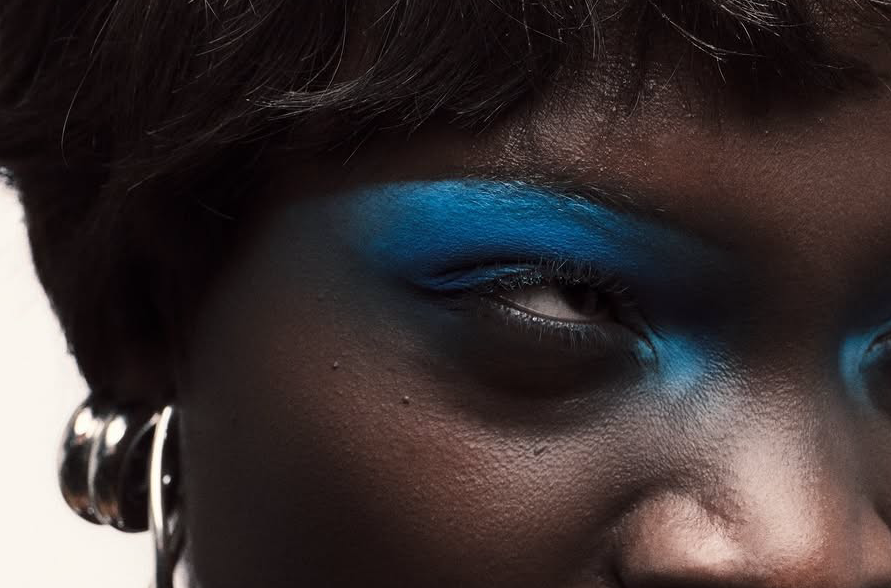
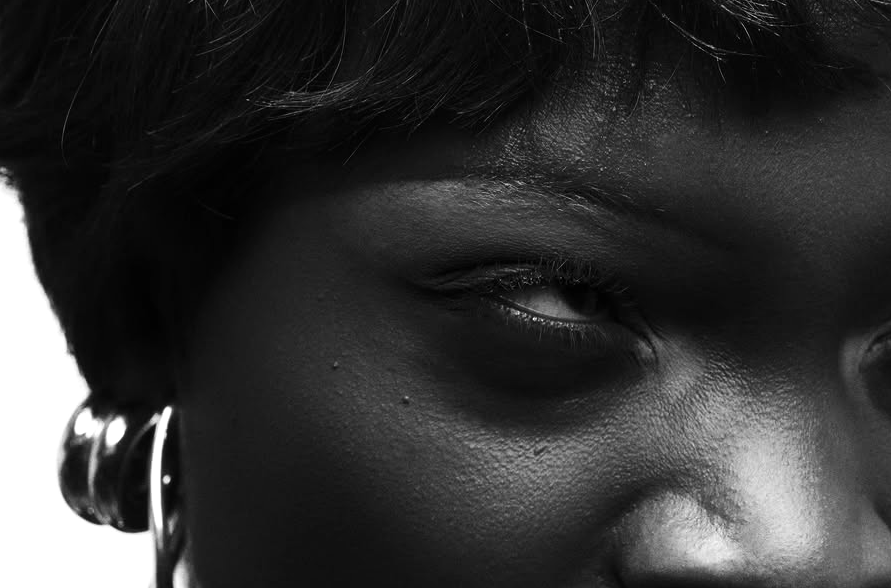
chore: implementing changes requested by client

diff --git a/src/app/community/page.tsx b/src/app/community/page.tsx
@@ -10,6 +10,7 @@ import discord from "@/assets/images/community/discord.svg";
 import vector from "@/assets/images/community/comm-vector.svg";
 import Footer from "./_components/Footer";
 
+
 export const metadata: Metadata = {
     title: "Community | Void Dreams",
     description: "Seek asylum. Join the Void Dreams community.",
@@ -18,16 +19,16 @@ export const metadata: Metadata = {
 const navLinks = ["Gallery", "Blog", "Opportunities"];
 const fields = ["ALTER EGO", "WYA", "WORK"];
 
-const buttonClass =
-    "h-[38px] cursor-pointer rounded-[4px] bg-[#D9D9D9] text-[22px] tracking-[-0.1em] text-black shadow-[inset_3px_2px_4px_rgba(0,0,0,0.25),-1px_1px_2px_rgba(87,87,87,0.95),0_-1px_2px_#fff]";
-
 export default function CommunityPage() {
+
     return (
         <main className="font-syne-mono relative flex min-h-dvh w-full text-[20px] flex-1 flex-col items-center overflow-hidden bg-[#060000] text-white">
             <div className="absolute inset-x-0 top-0 h-162.5">
-                <Image src={heroBg} alt="" fill preload sizes="100vw" className="object-cover" />
+                <Image src={heroBg} alt="seek asylum" fill preload sizes="100vw" className="object-cover" />
                 <div className="absolute inset-0 bg-black/40" />
             </div>
+
+
 
             <Image
                 src={texture}
@@ -44,7 +45,11 @@ export default function CommunityPage() {
                 ))}
             </nav>
 
-            <Image src={vector} alt="" aria-hidden className="pointer-events-none absolute top-[818px] right-[62px] hidden md:block" />
+            <Link href="/home">
+                <Image src={vector} alt="" aria-hidden className="max-md:w-20 fixed bottom-8 right-2 max-md:top-8 z-1000" />
+            </Link>
+
+
 
             <section className="relative top-20 mt-16 flex w-full flex-col gap-y-16 items-center px-4 md:mt-[100px]">
                 <h1 className="font-spray-letters text-center text-[4rem] leading-none tracking-[-0.05em] sm:text-[6rem] md:text-[8rem]">
@@ -66,11 +71,13 @@ We are here to ignite a creative revolution. To empower, uplift, and inspire a g
 Void Dreams exists to uplift, to challenge, and to create space for people to dream freely and build boldly.`}
             </p>
 
-            <section className="relative mt-24 flex w-full flex-col items-center px-4 md:mt-[80px]">
-                <h2 className="text-center text-5xl tracking-[-0.05em] md:text-[60px]">REBELZ ID</h2>
-                <p className="mt-1 text-xl tracking-[-0.05em] text-[#AAAAAA]">ID GENERATOR</p>
+            <section className="gap-15 relative mt-24 flex w-full flex-col items-center px-4 md:mt-[80px]">
+                <div className="relative top-10 flex flex-col items-center justify-center">
+                    <h2 className="text-center text-5xl tracking-[-0.05em] md:text-[60px]">REBELZ ID</h2>
+                    <p className="text-xl tracking-[-0.05em] text-[#AAAAAA]">ID GENERATOR</p>
+                </div>
 
-                <div className="mt-12 flex w-full max-w-[1100px] flex-col items-center gap-10 md:flex-row md:justify-center md:gap-4">
+                <div className="flex w-full max-w-[1100px] flex-col items-center gap-10 md:flex-row md:justify-center md:gap-4">
                     <figure className="flex w-full max-w-[488px] flex-col items-center">
                         <Image src={idFront} alt="Rebelz ID, front" className="h-auto w-full" />
                         <figcaption className="-mt-10 text-xl tracking-[-0.05em]">FRONT</figcaption>
@@ -81,7 +88,7 @@ Void Dreams exists to uplift, to challenge, and to create space for people to dr
                     </figure>
                 </div>
 
-                <div className="mt-12 flex w-full max-w-[562px] flex-col gap-[70px]">
+                <div className="flex w-full max-w-[562px] flex-col gap-[70px]">
                     {fields.map((label) => (
                         <input
                             key={label}
@@ -95,20 +102,21 @@ Void Dreams exists to uplift, to challenge, and to create space for people to dr
 
                 <div
                     role="presentation"
-                    className="mt-24 flex h-[241px] w-[263px] items-center justify-center rounded-[5px] bg-[#D9D9D9] px-14 text-center text-[15px] leading-[1.2] tracking-[-0.04em] text-[#160000] shadow-[inset_-5px_3px_2px_rgba(0,0,0,0.3)]"
+                    className="flex h-[241px] w-[263px] items-center justify-center rounded-[5px] bg-[#D9D9D9] px-14 text-center text-[15px] leading-[1.2] tracking-[-0.04em] text-[#160000] shadow-[inset_-5px_3px_2px_rgba(0,0,0,0.3)]"
                 >
                     Drag your image here
                     <br />
                     or click to browse
                 </div>
 
-                <button type="button" className={`button3d mt-14 w-[176px]`}>
+                <p className="max-w-[613px] px-2 text-center text-xl leading-[1.2] tracking-[-0.04em]">
+                    This ID is not a marketing campaign aimed at getting random people into our community. This ID is an important part of the Void Dreams world reserved for people who resonate with our mission and those who want to participate in the growth of the community long term.
+                </p>
+
+                <button type="button" className={`button3d h-10 w-[176px] md:relative md:bottom-5`}>
                     GENERATE
                 </button>
 
-                <p className="mt-16 max-w-[613px] px-2 text-center text-xl leading-[1.2] tracking-[-0.04em]">
-                    This ID is not a marketing campaign aimed at getting random people into our community. This ID is an important part of the Void Dreams world reserved for people who resonate with our mission and those who want to participate in the growth of the community long term.
-                </p>
             </section>
 
             <Footer />

diff --git a/src/app/community/_components/Footer.tsx b/src/app/community/_components/Footer.tsx
@@ -7,12 +7,13 @@ const linkClass = "block hover:opacity-100 focus-visible:outline-2 focus-visible
 
 export default function Footer() {
     return (
-        <footer className="relative mt-24 w-full overflow-hidden pb-3 md:mt-32">
+        <footer className="relative mt-14 w-full overflow-hidden pb-3 md:mt-8">
             <Image src={footerArt} alt="" className="pointer-events-none absolute inset-x-0 bottom-0 h-full w-full object-cover object-top" />
 
-            <div className="relative flex flex-col items-center gap-12 px-8 pt-24 md:flex-row md:items-start md:justify-between md:px-[107px]">
-                <div className="space-y-1 text-center md:text-left">
-                    <p className="text-base tracking-[-0.04em]">Navigation</p>
+            <div className="relative flex flex-row justify-center gap-12 px-8 pt-14 max-md:flex-col max-md:items-center max-md:gap-y-15 md:px-[107px]">
+
+                <div className="text-center md:text-left flex-1 max-md:w-full">
+                    <p className="text-[1.375rem] tracking-[-0.04em]">Navigation</p>
                     <ul className="text-sm leading-[1.2] tracking-[-0.05em] opacity-50">
                         <li><Link href="/home" className={linkClass}>Home</Link></li>
                         <li><Link href="#" className={linkClass}>Gallery</Link></li>
@@ -20,27 +21,28 @@ export default function Footer() {
                     </ul>
                 </div>
 
-                <div className="order-first flex w-full max-w-[462px] flex-col max-md:gap-y-5 items-center text-center md:order-none">
+                <div className="order-first flex w-full max-w-[462px] flex-1 flex-col max-md:gap-y-5 items-center text-center md:order-none">
                     <p className="text-xl tracking-[-0.04em]">EMAIL SIGN UP</p>
                     <p className="mt-3 text-base tracking-[-0.05em]">
                         Sign up for Newsletters and Reminders about <br className="hidden md:block" />
                         products and Community Activations
                     </p>
-                    <div className="mt-8 w-full border-b border-white pb-1 text-left text-xl tracking-[-0.05em]">EMAIL</div>
+                    <input className="mt-8 w-full border-b border-white pb-1 text-left text-xl tracking-[-0.05em]" placeholder="EMAIL" type="email" />
                     <button
                         type="button"
-                        className="button3d"
+                        className="button3d h-10"
                     >
                         SIGN UP
                     </button>
                 </div>
 
-                <div className="flex flex-col items-center gap-6 md:items-start">
+
+                <div className="flex flex-col items-center gap-6 md:items-end flex-1">
                     <div className="flex flex-col items-center md:items-start">
-                        <span className="text-[1.375rem] tracking-[-0.04em]">JOIN US</span>
+                        <span className="text-[1.375rem] tracking-[-0.04em] md:pl-2">JOIN US</span>
                         <Image src={joinIcons} alt="" width={143} height={48} className="mt-[5px]" />
                     </div>
-                    <div className="space-y-1 text-center md:text-left">
+                    <div className="space-y-1 w-[143px] md:pl-2 text-center md:text-left">
                         <p className="text-base tracking-[-0.04em]">Contacts</p>
                         <ul className="text-sm leading-[1.2] tracking-[-0.05em] opacity-50">
                             <li><Link href="#" className={linkClass}>Terms &amp; Conditions</Link></li>
@@ -50,7 +52,7 @@ export default function Footer() {
                 </div>
             </div>
 
-            <p className="relative mt-12 text-center text-[0.9375rem] tracking-[-0.04em] opacity-40">Copyright Void Dreams 2019</p>
+            <p className="relative mt-8 text-center text-[0.9375rem] tracking-[-0.04em] opacity-40">Copyright Void Dreams 2019</p>
         </footer>
     );
 }

diff --git a/src/app/home/page.tsx b/src/app/home/page.tsx
@@ -6,7 +6,7 @@ import asterisk from "@/assets/images/asterisk.png";
 import pipeline from "@/assets/images/pipeline-mark.png";
 import voidDvd from "@/assets/images/void-dvd.png";
 import joinIcons from "@/assets/images/join-icons.svg";
-import AsteriskNav from "@/components/AsteriskNav";
+import logo from "@/assets/images/Vector.svg"
 import BottomIcons from "./_components/BottomIcons";
 
 export const metadata: Metadata = {
@@ -24,33 +24,37 @@ const linkClass = "block hover:opacity-100 focus-visible:outline-2 focus-visible
 
 export default function HomePage() {
     return (
-        <main className="w-full font-syne-mono relative flex min-h-dvh flex-1 flex-col items-center overflow-hidden bg-black px-0 pb-0 text-white">
+        <main className="w-full font-syne-mono relative min-h-dvh overflow-hidden bg-black px-0 pb-0 text-white">
             <div className="absolute inset-x-0 top-0 h-[1024px] opacity-80">
                 <Image src={background} alt="" fill preload sizes="100vw" className="object-cover" />
             </div>
 
-            <div className="mx-auto mb-25 min-h-24 bg-black rounded-b-full relative p-4 flex justify-center items-center">
-                <AsteriskNav size={300} />
+            <div className="w-full relative h-dvh pt-4 flex flex-col items-center justify-between pb-6">
+                <div className="mx-auto mb-25 rounded-b-full relative p-4 flex justify-center items-center">
+                    <Image src={logo} alt="Void Logo" sizes="40vw" />
+                </div>
+
+                <h1
+                    data-text="Culture Moves When We Move"
+                    className="glitch font-jane-austen relative mb-25 max-w-[998px] text-center text-[2.5rem] leading-[1.15] sm:text-[4rem]"
+                >
+                    Culture Moves When We Move
+                </h1>
+
+                <div className="relative mx-auto">
+                    <BottomIcons icons={icons} />
+                </div>
             </div>
 
-            <h1
-                data-text="Culture Moves When We Move"
-                className="glitch font-jane-austen relative mt-16 mb-25 max-w-[998px] text-center text-[2.5rem] leading-[1.15] sm:text-[4rem] md:mt-[140px]"
-            >
-                Culture Moves When We Move
-            </h1>
 
-            <div className="relative mx-auto mt-16 md:mt-[170px]">
-                <BottomIcons icons={icons} />
-            </div>
-
-            <div className="p-8 bg-black relative mt-16 flex w-full flex-col items-center gap-10 md:mt-[111px] md:flex-row md:items-start md:justify-between">
+            <div className="p-8 bg-black relative mt-0 flex w-full flex-col items-center gap-10 md:flex-row md:items-start md:justify-between">
                 <div className="space-y-1 text-center md:text-left">
                     <p className="text-base tracking-[-0.04em]">Information</p>
                     <ul className="text-sm leading-[1.2] tracking-[-0.05em] opacity-50">
                         <li><Link href="#" className={linkClass}>On Demand</Link></li>
                         <li><Link href="#" className={linkClass}>Terms &amp; Conditions</Link></li>
                         <li><Link href="#" className={linkClass}>Privacy Policy</Link></li>
+                        <li><Link href="/community" className={linkClass}>Community</Link></li>
                     </ul>
                 </div>
 

diff --git a/src/app/home/_components/BottomIcons.tsx b/src/app/home/_components/BottomIcons.tsx
@@ -8,20 +8,33 @@ type Icon = { id: string; label: string; src: StaticImageData; size: number; dim
 
 export default function BottomIcons({ icons }: { icons: Icon[] }) {
     const [selected, setSelected] = useState<string | null>(null);
+    const [order, setOrder] = useState(icons);
+
+    const select = (index: number, id: string) => {
+        const n = order.length;
+        const mid = Math.floor(n / 2);
+        const shifts = (index - mid + n) % n;
+        setOrder([...order.slice(shifts), ...order.slice(0, shifts)]);
+        setSelected(id);
+    };
 
     return (
-        <div className="flex flex-wrap items-center justify-center gap-x-16 md:gap-0">
-            {icons.map((icon, i) => {
+        <div className="flex flex-wrap items-center justify-center gap-x-5 md:gap-10 w-full">
+            {order.map((icon, i) => {
                 const isSelected = selected === icon.id;
                 return (
                     <motion.button
                         key={icon.id}
+                        layout
                         type="button"
                         aria-label={icon.label}
                         aria-pressed={isSelected}
-                        onClick={() => setSelected(icon.id)}
+                        onClick={() => select(i, icon.id)}
                         animate={{ scale: isSelected ? 1.15 : 1 }}
-                        transition={{ type: "spring", stiffness: 300, damping: 20 }}
+                        transition={{
+                            scale: { type: "spring", stiffness: 300, damping: 20 },
+                            layout: { type: "spring", stiffness: 260, damping: 28 },
+                        }}
                         className={`shrink-0 cursor-pointer focus-visible:outline-2 focus-visible:outline-offset-4 focus-visible:outline-white ${i === 1 ? "z-10 md:-mx-3" : ""
                             }`}
                         style={{ opacity: icon.dim && !isSelected ? 0.45 : 1 }}
@@ -31,7 +44,7 @@ export default function BottomIcons({ icons }: { icons: Icon[] }) {
                             alt=""
                             width={icon.size}
                             height={icon.size}
-                            className="max-w-30"
+                            className="w-30 max-md:w-25"
                         />
                     </motion.button>
                 );

diff --git a/src/app/page.tsx b/src/app/page.tsx
@@ -2,7 +2,7 @@ import type { Metadata } from "next";
 import Image from "next/image";
 import Link from "next/link";
 import { Syne_Mono } from "next/font/google";
-import background from "@/assets/images/VS Backgrounds 1.jpg";
+import background from "@/assets/images/home-bg.png";
 import globe from "@/assets/images/globe.png";
 
 const syneMono = Syne_Mono({ weight: "400", subsets: ["latin"] });

diff --git a/src/app/globals.css b/src/app/globals.css
@@ -131,6 +131,6 @@ body {
 
 @media (min-width: 48rem) {
   .button3d {
-    margin-top: 77px;
+    margin-top: 30px;
   }
 }
